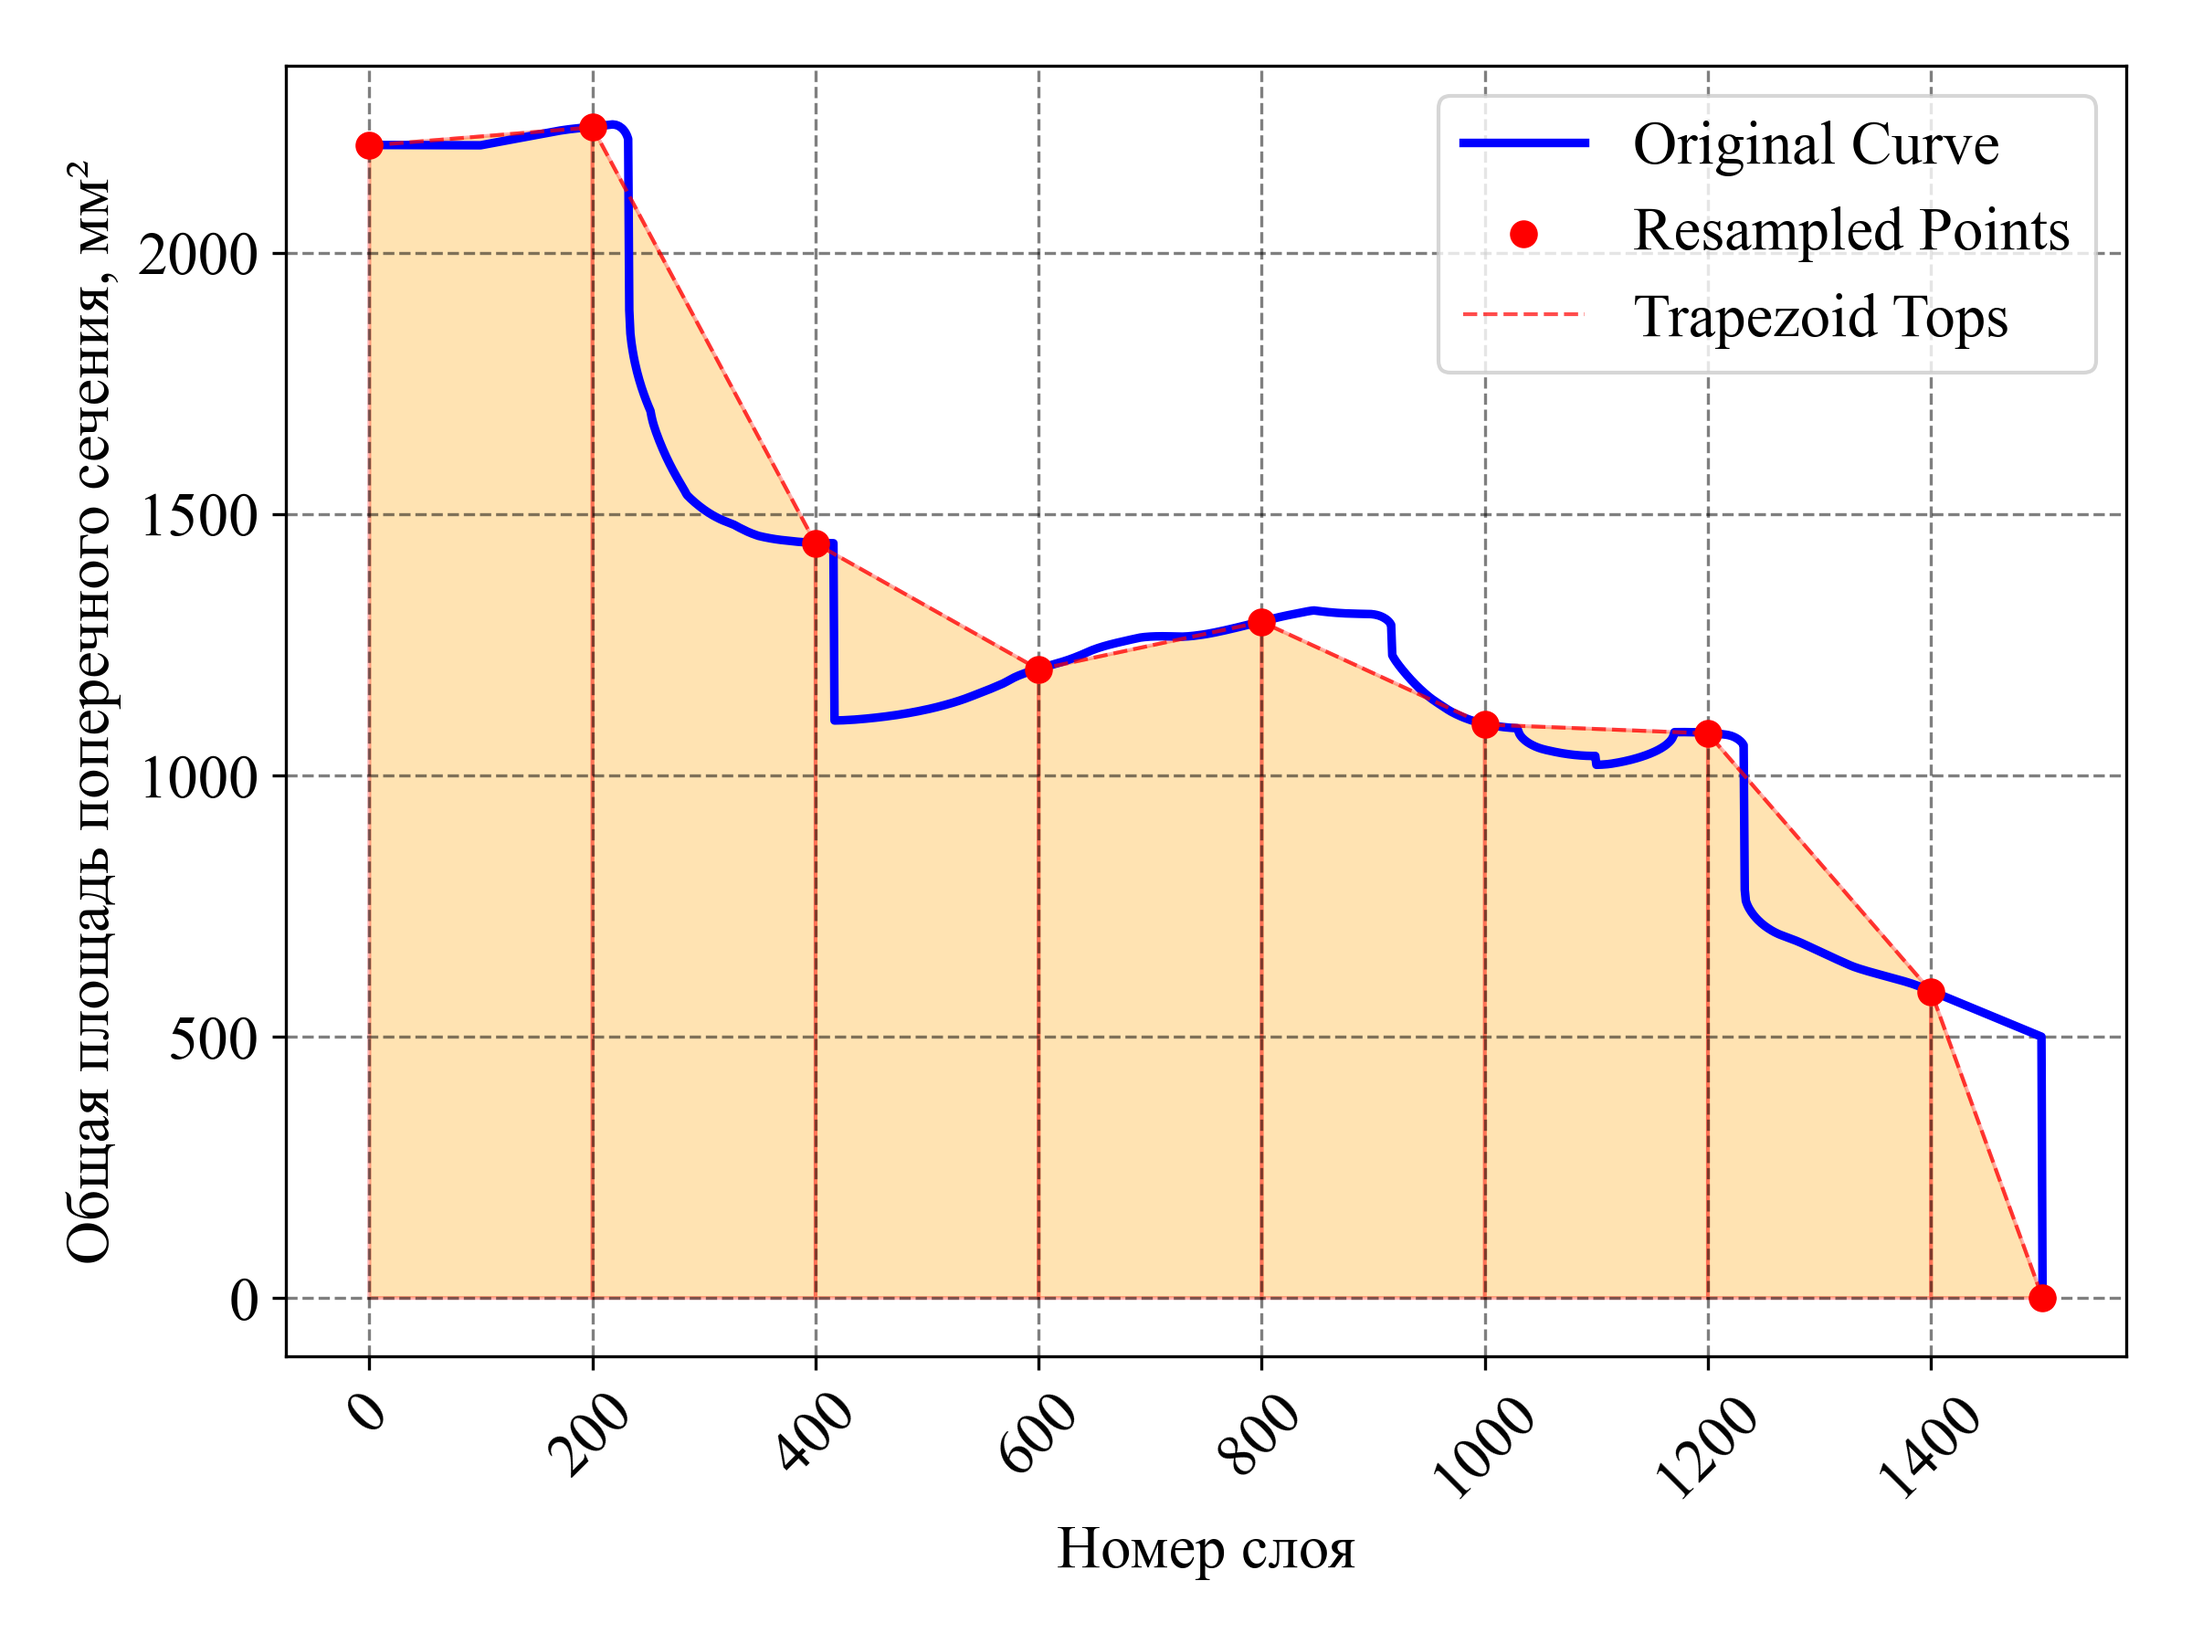
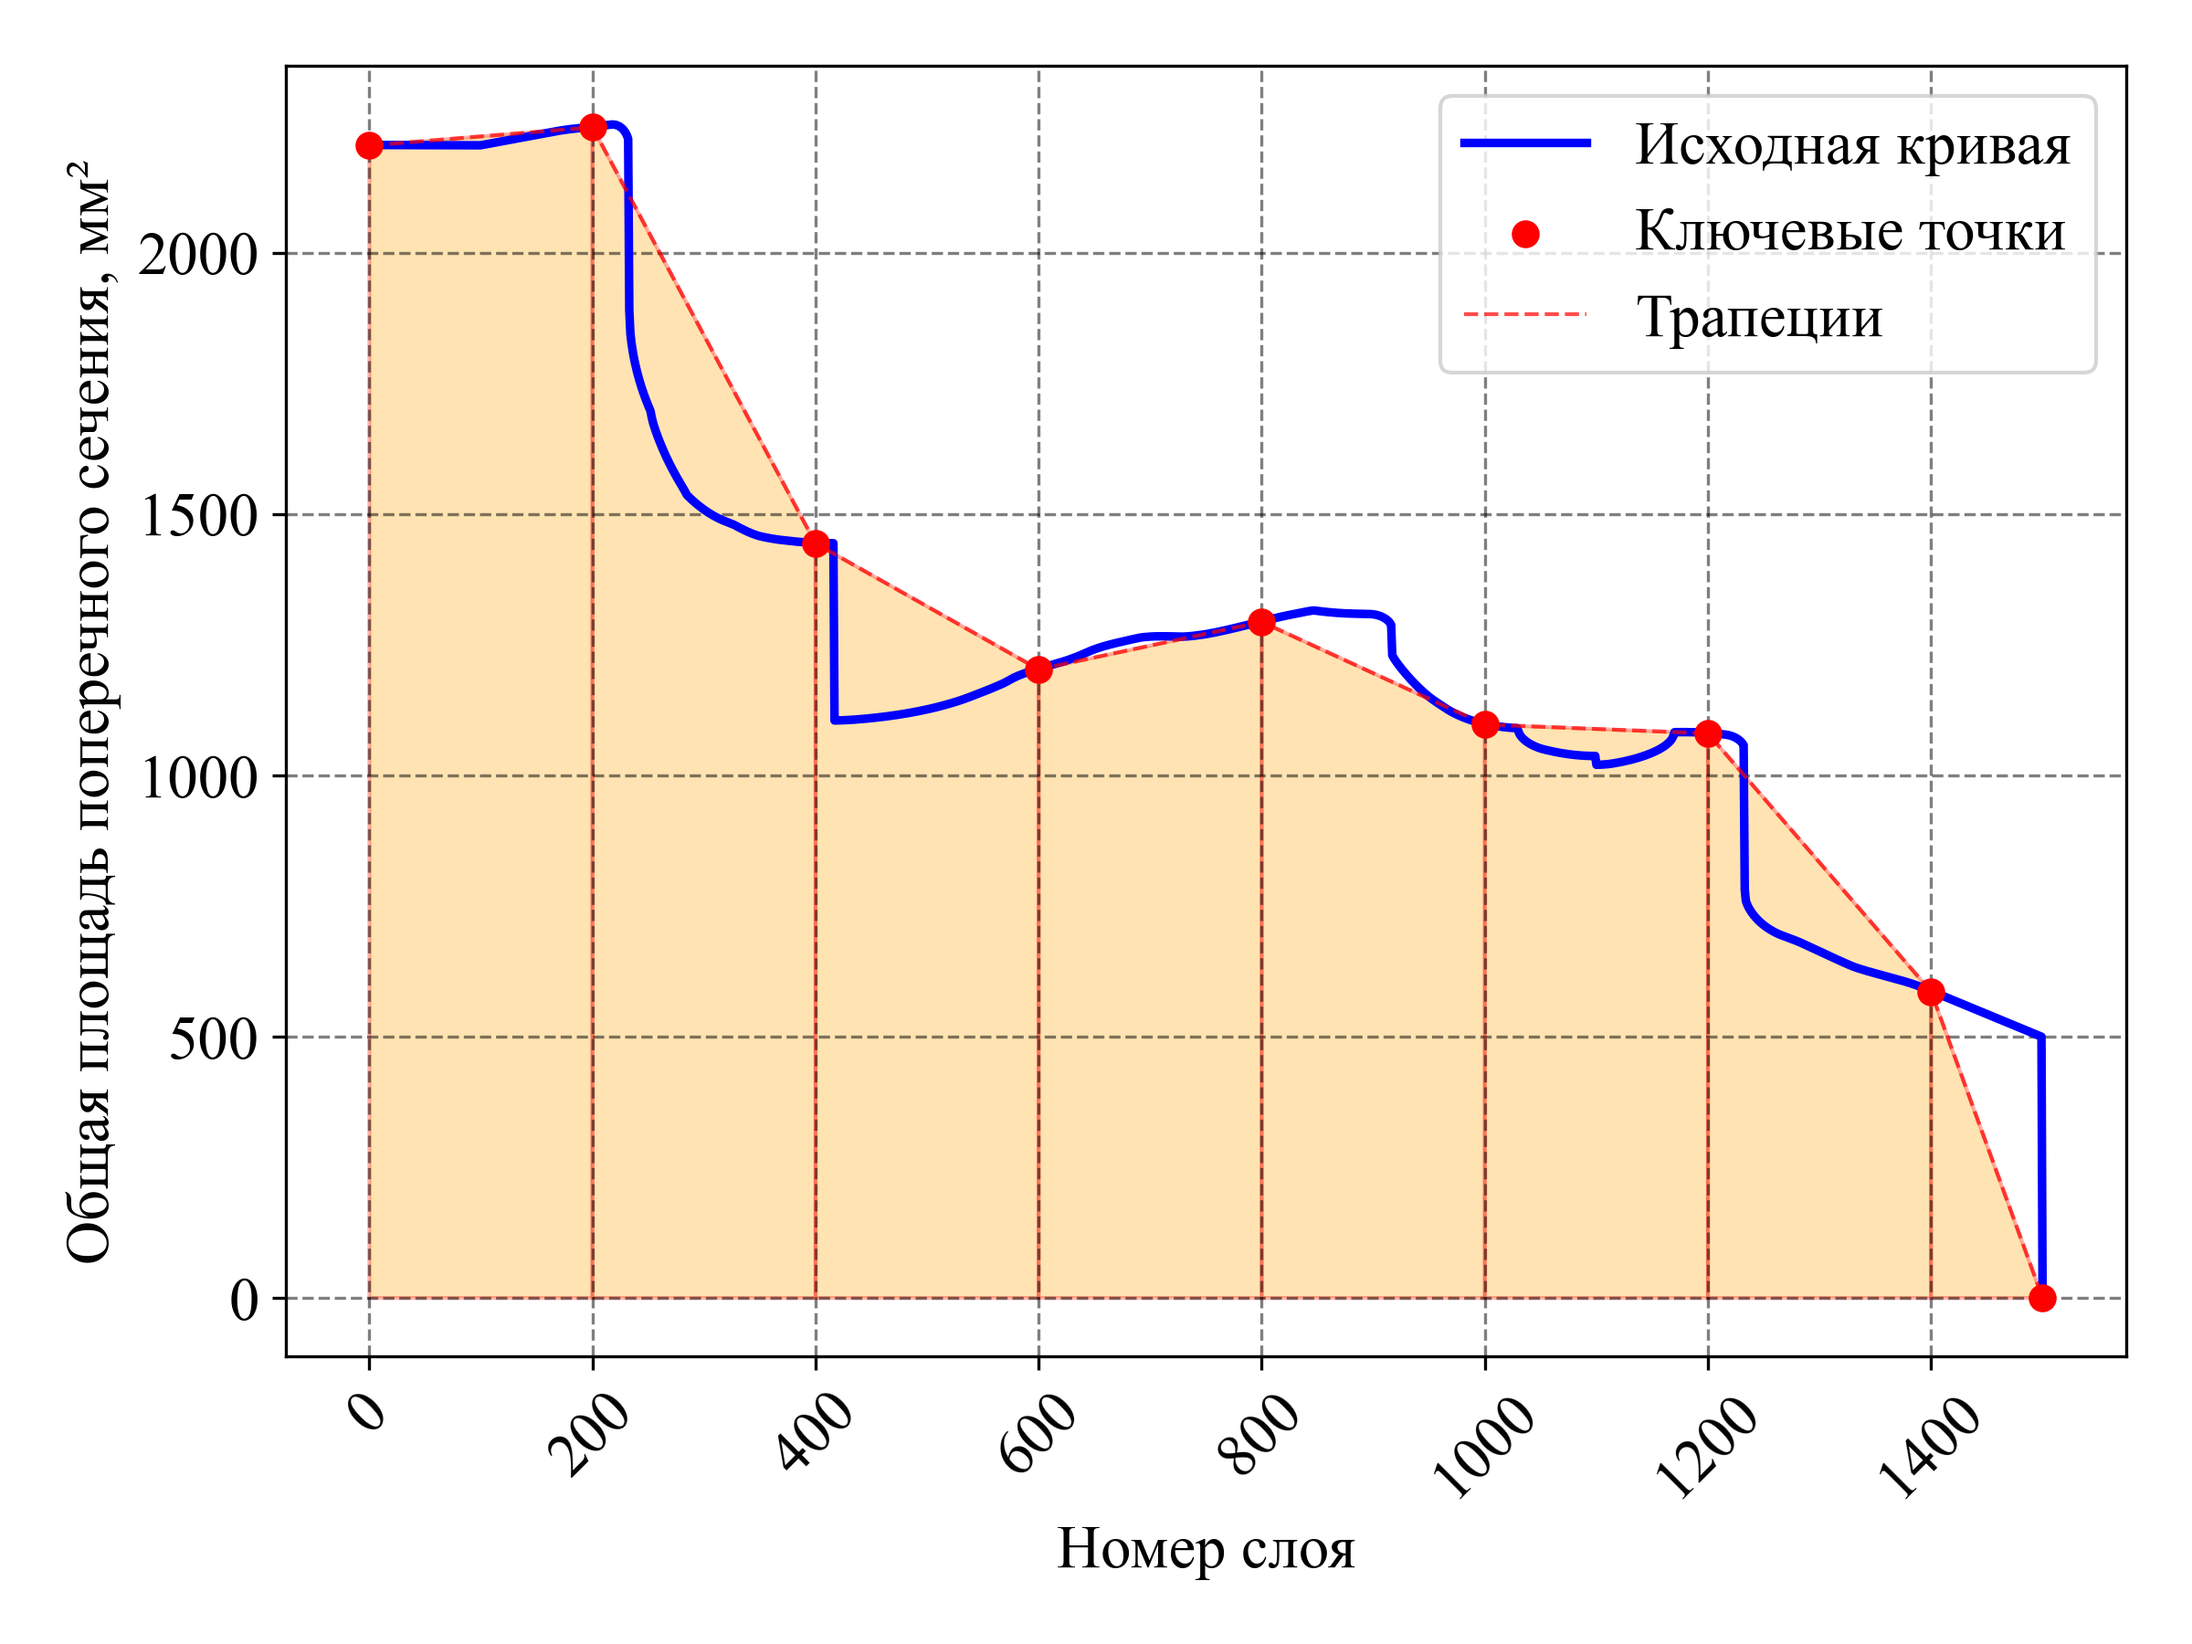
russian figures and readme

Changed region(s): [[0.75, 0.0622, 0.9375, 0.1556], [0.75, 0.1867, 0.9062, 0.2178]]

diff --git a/readme.md b/readme.md
@@ -1,138 +1,60 @@
-# LPBF Time Estimation
-
-## Overview
-This repository provides tools and scripts for estimating the processing time of Laser Powder Bed Fusion (LPBF) metal 3D printing. The estimation is based on real measurement data collected from a pilot laser system operating without real emission.
-
-## Features
-- Parses and processes experimental log files containing laser movement data.
-- Estimates printing time based on pilot laser movements.
-- Provides visualization and analysis of estimated times.
-
-## Repository Structure
-```
-LPBF_TimeEstimation-main/
-│-- notebooks/
-│   ├── 2025.02.10 - Ecolibry.ipynb    # Jupyter Notebook for Ecolibry-based analysis
-│   ├── 2025.02.10 - TimeEval.ipynb    # Jupyter Notebook for general time evaluation
-│
-│-- scripts/
-│   ├── logsParser.py    # Script for parsing log files
-│   ├── spec_func.py     # Contains specific functions used in time estimation
-│
-│-- tables/
-│   ├── *.log            # Log files with recorded laser movement data
-│
-│-- figures/
-│   ├── *.png            # Generated figures and plots
-│
-│-- README.md            # Project documentation
-```
-
-## Installation
-1. Clone the repository:
-   ```sh
-   git clone https://github.com/your-username/LPBF_TimeEstimation.git
-   cd LPBF_TimeEstimation
-   ```
-2. Install required dependencies:
-   ```sh
-   pip install -r requirements.txt
-   ```
-
-## Usage
-### Running Jupyter Notebooks
-To analyze data and visualize results, open the notebooks:
-```sh
-jupyter notebook
-```
-Select one of the provided notebooks (`Ecolibry.ipynb` or `TimeEval.ipynb`) and run the cells step by step.
-
-### Parsing Log Files
-To parse and extract useful data from log files, run:
-```sh
-python scripts/logsParser.py tables/your_log_file.log
-```
-
-### Running Time Estimation Functions
-You can use `spec_func.py` to apply custom estimation functions. Import the module and use predefined functions as needed:
-```python
-from scripts.spec_func import your_function
-result = your_function(parameters)
-```
-
-You're right! Since the images are stored in the `./figures` directory within the repository, I should reference them correctly in the `README.md`. I'll update the file to point to the correct paths.
-
-Here’s the corrected version:
+Вот переведённая версия файла `README.md` на русский язык:
 
 ---
 
-# **LPBF Time Estimation Project**
+# **Оценка времени печати в СЛС**
 
-## **Overview**
-This repository provides tools and scripts for estimating the time required for Laser Powder Bed Fusion (LPBF) metal 3D printing. The estimation is based on real measurements performed using a pilot laser, without actual material emission.
+## **Обзор**
+Этот репозиторий содержит инструменты и скрипты для оценки времени печати любых изделий по технологии **Селективного лазерного сплавления (СЛС)** металло-порошковых композиций. Оценка основана на реальных измерениях, выполненных с использованием пилотного лазера без фактического плавления материала.
 
-## **Features**
-- Parsing log files containing measurement data.
-- Processing cross-sectional area variations through layers.
-- Estimating cumulative manufacturing time.
-- Comparing estimated and actual manufacturing times.
+## **Функциональные возможности**
+- Разбор лог-файлов с данными измерений.
+- Обработка изменений площади поперечного сечения по слоям.
+- Оценка суммарного времени изготовления.
+- Сравнение рассчитанного и реального времени изготовления.
 
-## **Installation**
-To use the scripts and notebooks, install the required dependencies using:
+## **Использование**
+1. **Обработка данных**:
+   - Лог-файлы (`tables/*.log`) содержат сырые данные измерений.
+   - `logsParser.py` извлекает релевантную информацию.
+   - `spec_func.py` обрабатывает поперечные сечения и рассчитывает время изготовления.
 
-```bash
-pip install -r requirements.txt
-```
+2. **Анализ в Jupyter Notebook**:
+   - `2025.02.10 - Ecolibry.ipynb` – анализ изменения площади поперечного сечения на примере реального проекта.
+   - `2025.02.10 - TimeEval.ipynb` – оценка времени и валидация данных в общем.
 
-Alternatively, if using Poetry:
+3. **Визуализация**:
+   - Следующие графики иллюстрируют различные этапы анализа:
 
-```bash
-poetry install
-```
+### **Графики и анализ**
 
-## **Usage**
-1. **Data Processing**:
-   - Log files (`tables/*.log`) contain raw measurements.
-   - `logsParser.py` extracts relevant information.
-   - `spec_func.py` processes cross-sectional areas and estimates manufacturing time.
+#### **1. Изменение площади поперечного сечения по слоям**
+Изменение площади поперечного сечения в процессе печати.
 
-2. **Analysis Notebooks**:
-   - `2025.02.10 - Ecolibry.ipynb` – Analysis of cross-sectional areas.
-   - `2025.02.10 - TimeEval.ipynb` – Time estimation and validation.
+![Площадь поперечного сечения](figures/2025.02.16_Ecolibry_tss.png)
 
-3. **Visualization**:
-   - The following figures illustrate different aspects of the analysis:
+#### **2. Оценка суммарного времени изготовления vs. Реальные измерения**
+Сравнение рассчитанного суммарного времени изготовления с реальными измерениями.
 
-### **Figures and Analysis**
+![Сравнение суммарного времени](figures/2025.02.19_cumulative_time_comparasion.png)
 
-#### **1. Cross-Sectional Area Change per Layer**
-This plot shows how the cross-sectional area evolves throughout the printing process.
+#### **3. Изменение площади поперечного сечения с фиксированными точками**
+На этой визуализации показаны фиксированные точки, использованные для интерполяции.
 
-![Cross-sectional Area](figures/2025.02.16_Ecolibry_tss.png)
+![Расположение фиксированных точек](figures/2025.02.19_fix_point_placement.png)
 
-#### **2. Cumulative Time Estimation vs. Actual Time**
-The estimated cumulative manufacturing time is compared against real measurements.
+#### **4. Трапецеидальная аппроксимация площади поперечного сечения**
+Метод ресемплирования для расчёта времени изготовления.
 
-![Cumulative Time Comparison](figures/2025.02.19_cumulative_time_comparasion.png)
+![Аппроксимация](figures/2025.02.19_error_based_100.png)
 
-#### **3. Layer-Based Area Change with Fix Points**
-This visualization includes fix points used for interpolation.
+#### **5. Реальное vs. Расчётное время изготовления слоев**
+Разница между оценочным и фактическим временем изготовления отдельных слоев.
 
-![Fixed Points Placement](figures/2025.02.19_fix_point_placement.png)
+![Реальное vs. Оценочное время](figures/2025.02.19_real_time_vs_estimation_layer_time_manufacturing.png)
 
-#### **4. Trapezoidal Approximation for Cross-Sectional Area**
-A resampling method for calculating manufacturing time.
+## **Вклад в проект**
+Вы можете предложить улучшения, создать issue или отправить pull request для расширения функциональности.
 
-![Error-Based 100](figures/2025.02.19_error_based_100.png)
-
-#### **5. Real vs. Estimated Layer Manufacturing Time**
-The difference between the estimated and real time for individual layers.
-
-![Real Time vs. Estimation](figures/2025.02.19_real_time_vs_estimation_layer_time_manufacturing.png)
-
-## Contributing
-Feel free to submit issues, suggestions, or pull requests to enhance functionality.
-
-## License
-This project is licensed under the MIT License.
-
+## **Лицензия**
+Этот проект распространяется под лицензией MIT.
